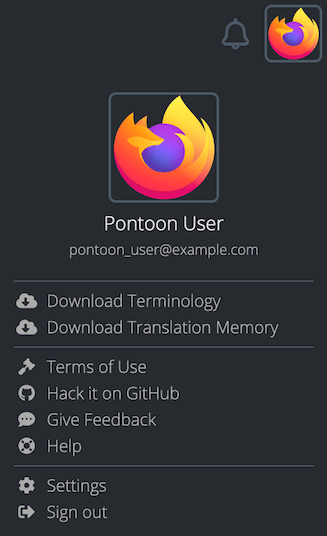
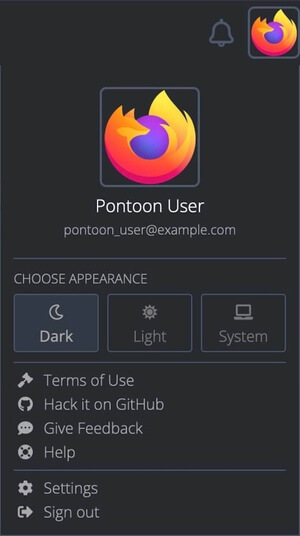
Add light theme feature documentation (#233)

Changed region(s): [[0.0, 0.0, 1.0, 1.0], [0.66, 0.0299, 0.78, 0.0896]]

diff --git a/src/tools/pontoon/ui.md b/src/tools/pontoon/ui.md
@@ -25,11 +25,19 @@ A progress chart showing the translation status of the current resource is locat
 
 The notifications icon, represented by a bell, is located on the right side of the main toolbar. By clicking the bell icon, users can view a list of the latest [notifications](notifications.md) they received.
 
-The profile menu is located at the far right of the main toolbar. Clicking the profile image will reveal a dropdown menu where users can perform several actions, like navigate to their [profile page](profile.md), [download and upload translations](translate.md#downloading-and-uploading-translations), etc.
+The profile menu is located at the far right of the main toolbar. Clicking the profile image will reveal a dropdown menu where users can perform several actions, like navigate to their [profile page](profile.md), [download and upload translations](translate.md#downloading-and-uploading-translations), change their theme, etc.
 
 ![Profile menu](../../assets/images/pontoon/ui/profile_menu.png "Screenshot of the profile menu")
 
 Note that some profile menu items are only available to users with specific [permissions](users.md#user-roles).
+
+A selector to change the current theme is available in the profile menu and in the [settings page](users.md#appearance). There are three theme options available:
+
+* Light.
+* Dark.
+* Match system (aligns with the theme used by the operating system).
+
+To change the theme, select the button corresponding to your preferred theme. The change will take effect immediately.
 
 ## String list and filters
 

diff --git a/src/tools/pontoon/users.md b/src/tools/pontoon/users.md
@@ -29,6 +29,16 @@ In this section it’s possible to update the display name and other personal in
 * `Contact email address`: if provided, this will be displayed in the Profile page instead of the login email address.
 * `Bio`: a short text that will be displayed in the Profile page.
 
+### Appearance
+
+The user can chose between a light and dark combination of colors for Pontoon. There are three theme options available:
+
+* Light.
+* Dark.
+* Match system (aligns with the theme used by the operating system).
+
+To change the theme, select the button corresponding to your preferred theme. The change will take effect immediately.
+
 ### External accounts
 
 In this section it’s possible to specify the username used in external accounts, like GitHub or Bugzilla. If provided, this information will be displayed in the Profile page.

diff --git a/src/tools/pontoon/README.md b/src/tools/pontoon/README.md
@@ -13,3 +13,5 @@ If you’re interested in administrating Pontoon, please read [these documents](
 * [How to translate](translate.md).
 * [Example workflow](workflow.md).
 * [Glossary](glossary.md).
+
+**Note:** The screenshots in this documentation use the dark theme, but a light theme is also available.
